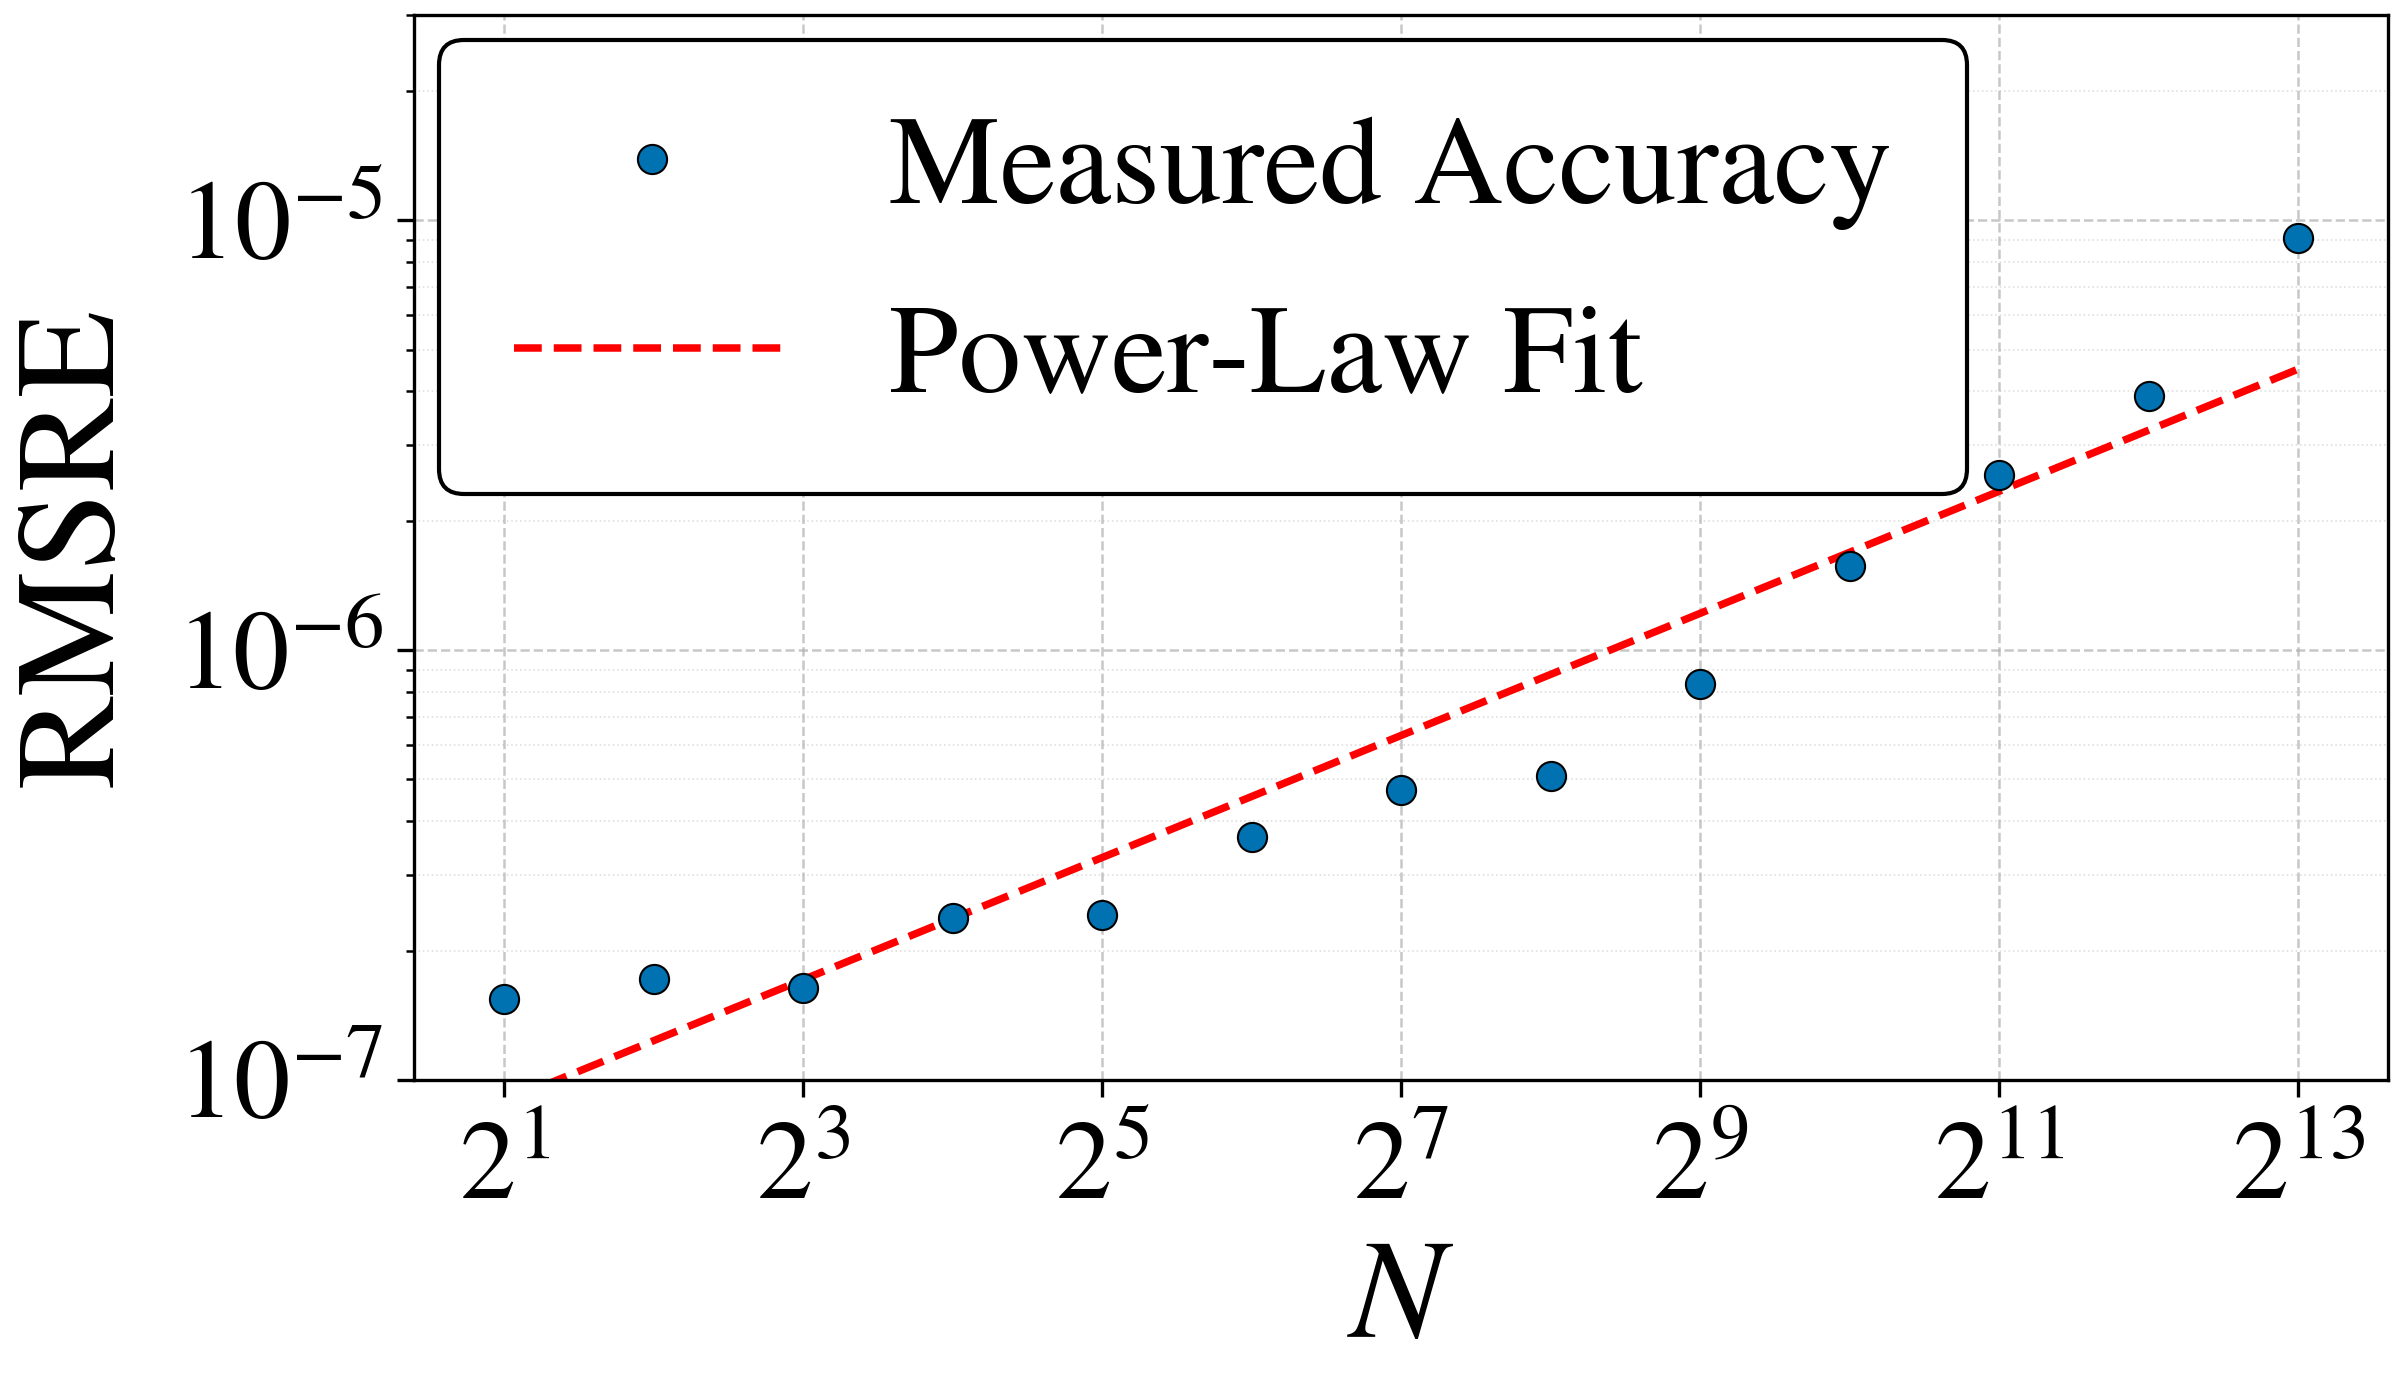
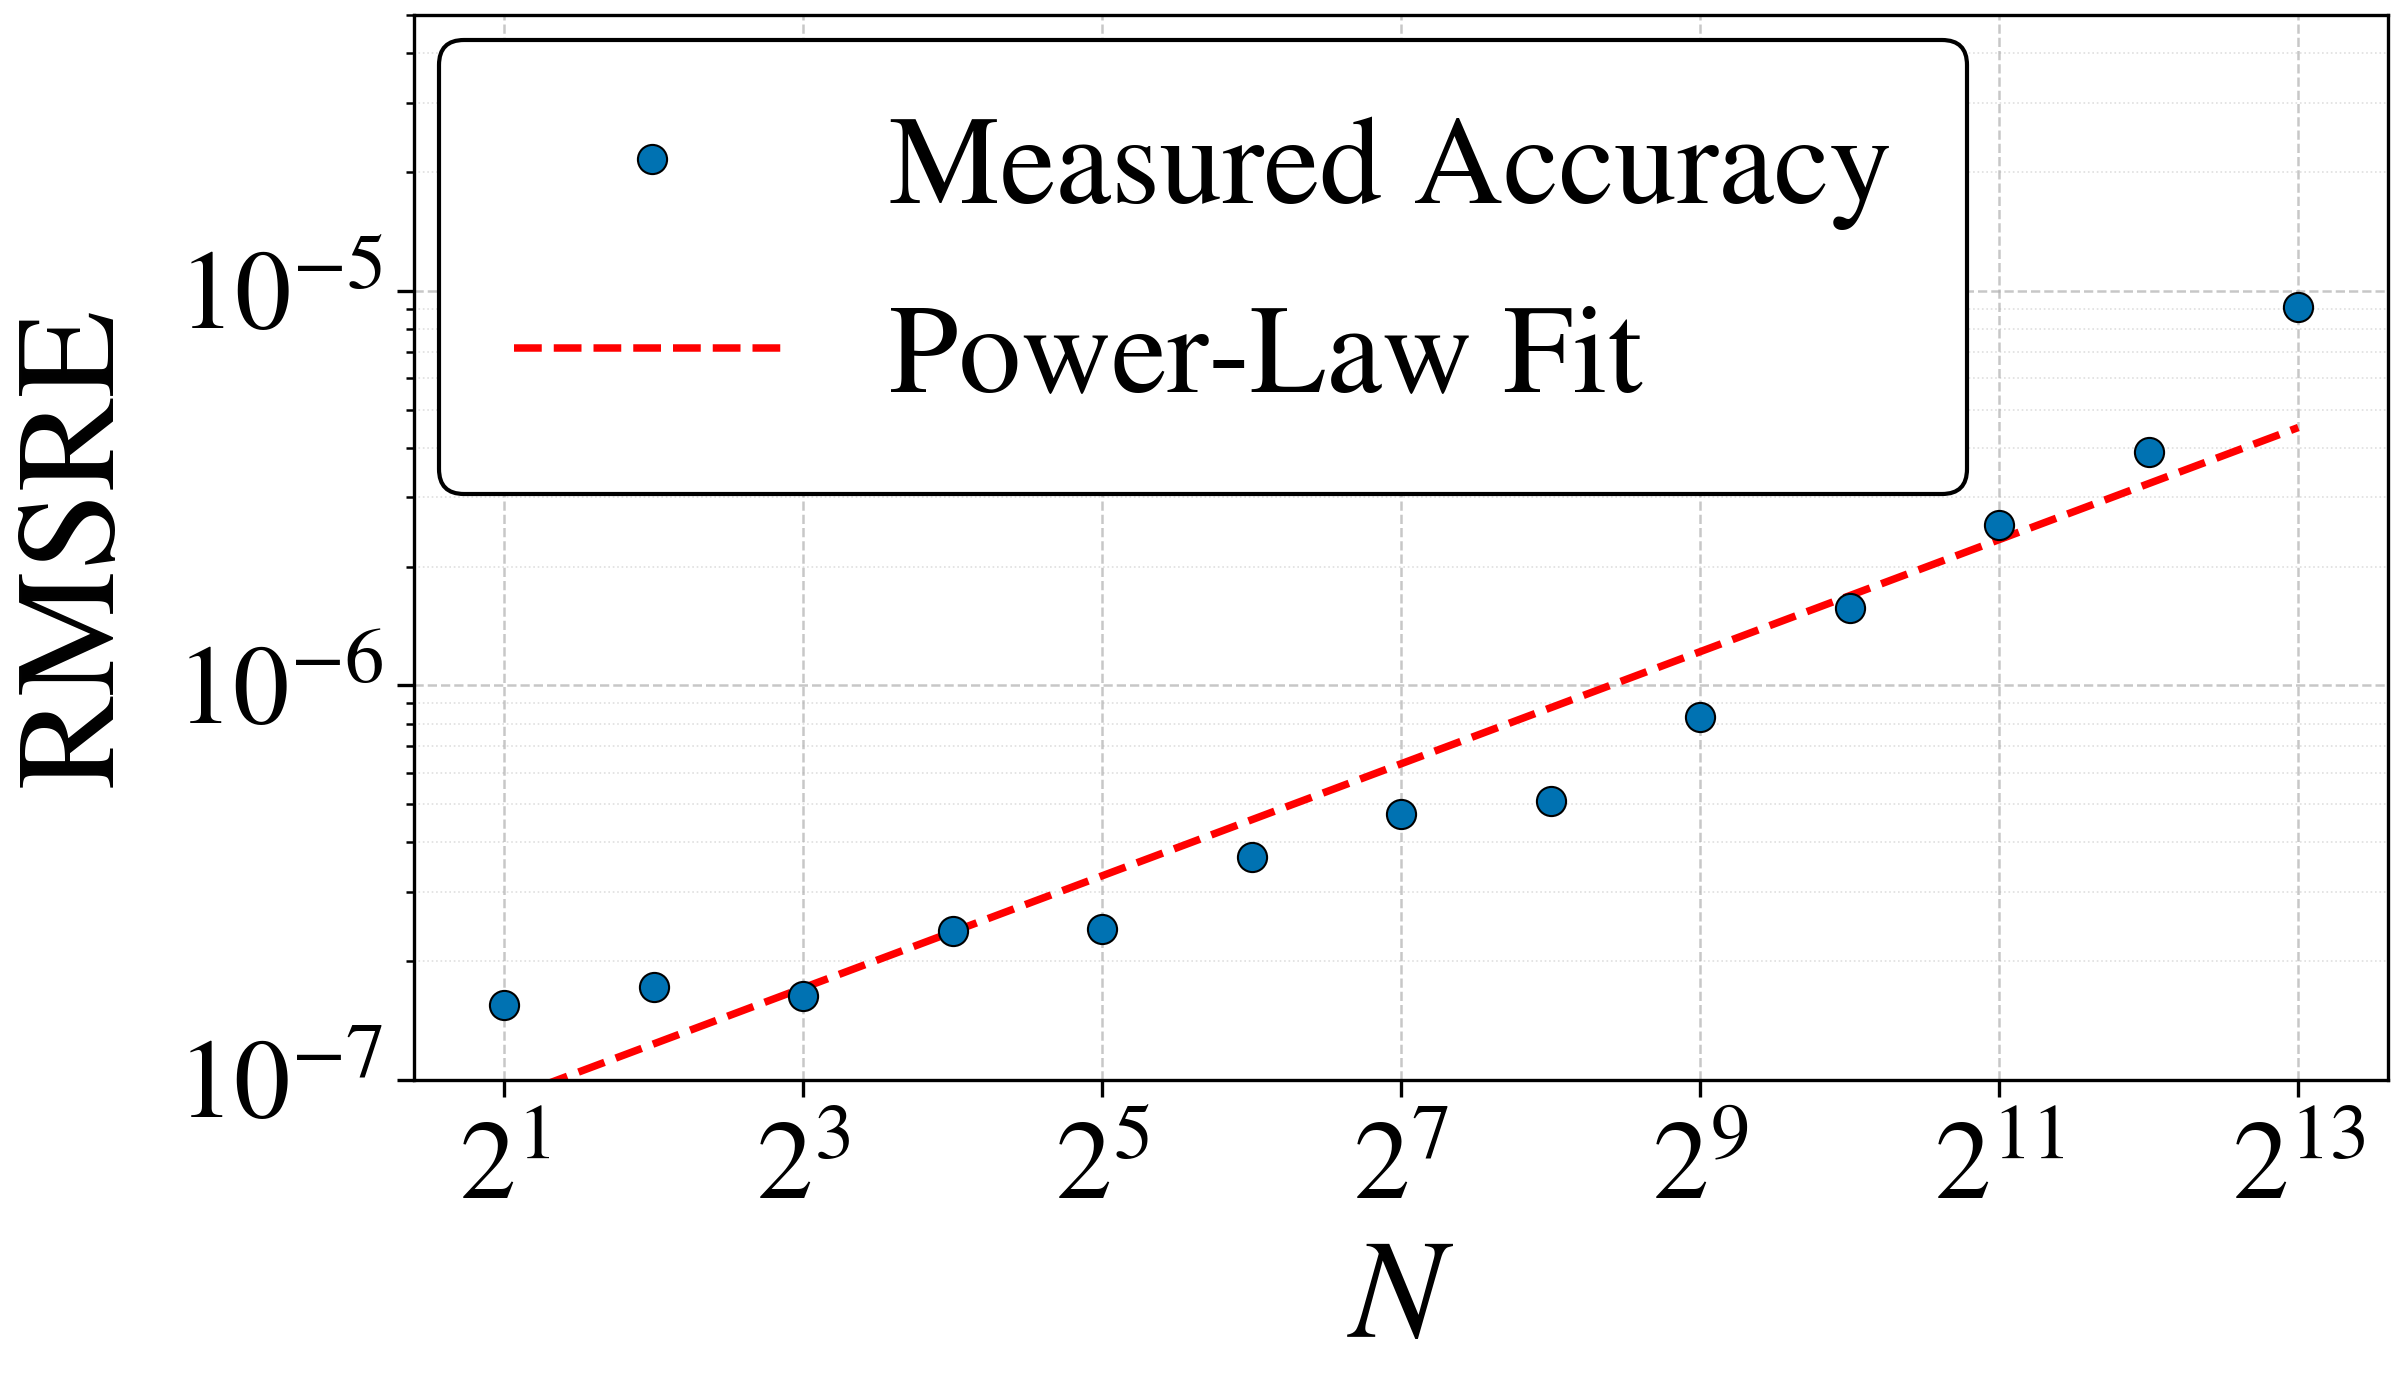
m

diff --git a/evaluation/layernorm/N_sweep/scripts/plot_accuracy.py b/evaluation/layernorm/N_sweep/scripts/plot_accuracy.py
@@ -21,10 +21,10 @@ Design notes
   odd exponents only (2^1, 2^3, ..., 2^13), every second one dropped so the
   enlarged labels do not crowd once the figure is shrunk into its side-by-side
   LaTeX pair. Each figure's y-axis is autoscaled to its own series (the 1-Newton
-  figure additionally brackets its limits to [1e-7, 3e-5] -- the three decade
-  ticks 10^-7..10^-5 plus a third-decade of headroom above 10^-5 to clear the
-  upper-left legend), so both read clearly despite the two configurations
-  occupying different RMSRE ranges.
+  figure additionally brackets its limits to [1e-7, 5e-5] -- the three decade
+  ticks 10^-7..10^-5 plus roughly two-thirds of a decade of headroom above 10^-5
+  to open a comfortable gap under the upper-left legend), so both read clearly
+  despite the two configurations occupying different RMSRE ranges.
 * Each measurement is drawn as a bare marker (no connecting line), so the raw
   sweep is shown exactly as sampled.
 * Only the 1-Newton series is close to a straight line on these log-log axes
@@ -288,14 +288,15 @@ def plot(label: str, color: str, marker: str, fit: bool,
 
     if fit:
         # The 1-Newton RMSRE spans ~1.5e-7 .. 9.1e-6, i.e. just inside the
-        # 10^-7 .. 10^-5 decades. Bracket the limits to [1e-7, 3e-5]: the 1e-7
+        # 10^-7 .. 10^-5 decades. Bracket the limits to [1e-7, 5e-5]: the 1e-7
         # floor and the 10^-7/10^-6/10^-5 decade ticks are unchanged, but the top
-        # is lifted a third of a decade above 10^-5 (from a tight 1e-5) to open
-        # headroom under the upper-left legend. With the enlarged legend type the
-        # box grows; at a 1e-5 top it would overlap the fit line and the N=1024
-        # point, so the extra headroom pushes the data down clear of the box while
-        # keeping every point inside the axes (max RMSRE 9.1e-6 < 3e-5).
-        ax.set_ylim(1e-7, 3e-5)
+        # is lifted about two-thirds of a decade above 10^-5 to open a comfortable
+        # gap under the upper-left legend. With the enlarged legend type the box
+        # grows; a tighter top (1e-5, or even 3e-5) leaves the fit line almost
+        # touching the legend, so the extra headroom pushes the data down clear of
+        # the box (fit line ~2.2e-6 vs. legend bottom ~3.0e-6, a ~35% gap) while
+        # keeping every point inside the axes (max RMSRE 9.1e-6 < 5e-5).
+        ax.set_ylim(1e-7, 5e-5)
     else:
         # The 0-Newton floor sits at ~1.6e-4 with its large-N points dipping to
         # ~6.8e-5, so a tight autoscale pins the bottom of the data almost onto
